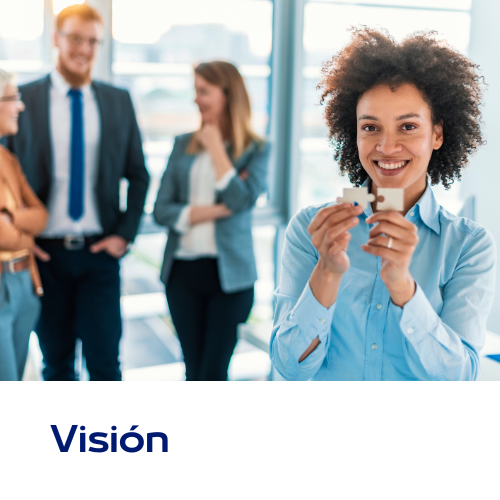
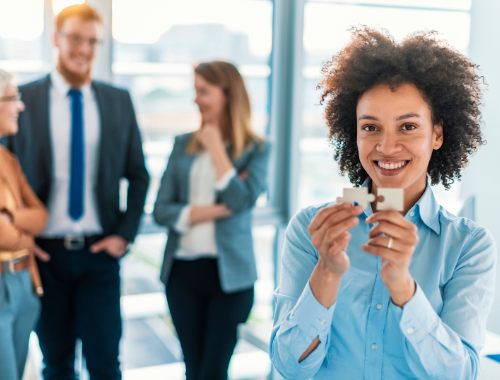
Recorte imagenes que faltaban por editar

diff --git a/css/style.css b/css/style.css
@@ -43,7 +43,7 @@ footer a:hover {
 
 /* 2) Imágenes en conocenos.html */
 .conocenos-img-peque {
-  height: 250px;
+  height: 300px;
   object-fit: cover;
 }
 .conocenos-img-grande {
